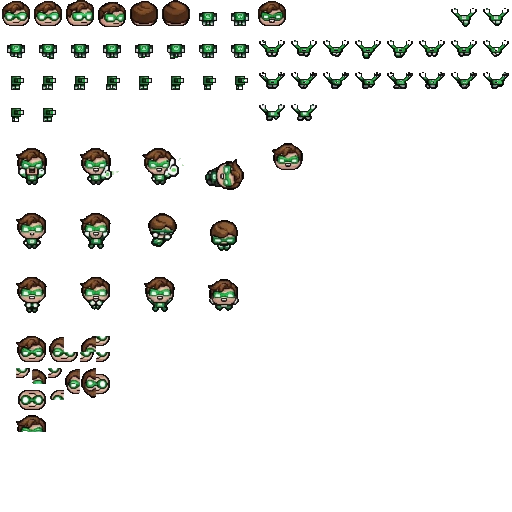
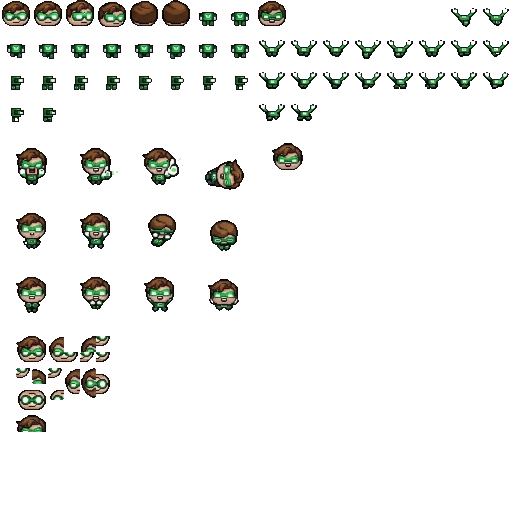
fix(sprites): eliminate boot/neck white dots, protect pickup gloves, and refine subpixel downsampling

diff --git a/tools/build_user_hal_sprites.py b/tools/build_user_hal_sprites.py
@@ -1,13 +1,15 @@
 """
 tools/build_user_hal_sprites.py
 Implements user-provided transparent Hal Jordan sprite sheet into The Binding of Isaac: Repentance format.
-- Input: 1024x1024 RGBA transparent PNG.
-- Preserves authentic white gloves, chest emblem, glowing eyes, and teeth.
-- Cleans up stray white, grey, and off-color noise pixels on hair, skin, mask perimeter, neck, and outlines.
-- Eliminates transparent edge fringes and ringing artifacts.
+- Input: 1024x1024 RGBA transparent PNG (media_1792140081953_e9e21585.png).
+- Subpixel filtering: averages only solid subpixels (alpha >= 200) to prevent transparent white/grey edge ringing.
+- Preserves authentic white gloves, circular chest emblem, glowing mint/white eyes, and open-mouth teeth.
+- Eliminates stray white, grey, and off-color noise pixels on hair, skin, mask perimeter, neck, boots, and crotch.
+- Eliminates inadvertent black noise dots by appropriately restoring green suit, black suit, and green boot colors.
+- Solidifies crisp dark perimeter outlines matching Isaac Repentance art style.
 - Exact 512x512 RGBA matching 001.000_player.anm2 grid.
 - Crisp 1-bit binary alpha (0 semi-transparent pixels) matching authentic Repentance engine standards.
-- Integrates teleport light beam & hole base in Col 4 & 6 (Y=320..448).
+- Integrates vanilla teleport light beam & trapdoor hole base in Col 4 & 6 (Y=320..448).
 - Saves to resources/gfx/characters/hal_jordan.png and hal_jordan_extra.png.
 """
 
@@ -40,21 +42,25 @@ def process_sheet():
     arr_v = np.array(vanilla)
 
     # 1. 2x2 area pooling downscale to 512x512 with subpixel filtering
-    print("Downscaling 1024x1024 to 512x512 RGBA with alpha-weighted pooling...")
+    # Subpixels with alpha < 200 hold transparent white-ringing from original white background.
+    # We strictly average subpixels with alpha >= 200 so background noise never enters foreground colors.
+    print("Downscaling 1024x1024 to 512x512 RGBA with solid subpixel filtering...")
     blocks = arr_src.reshape(512, 2, 512, 2, 4).transpose(0, 2, 1, 3, 4).reshape(512, 512, 4, 4)
     rgb = blocks[:, :, :, :3]
     alpha = blocks[:, :, :, 3]
 
-    # Filter out faint antialiased transparent fringes (alpha < 64)
-    valid = alpha >= 64
-    w = alpha * valid
+    solid_sub = alpha >= 180
+    has_fg = solid_sub.sum(axis=2) >= 2
+
+    w = (alpha >= 200).astype(float)
     w_sum = w.sum(axis=2)
-    # Majority vote: 2 or more solid subpixels -> solid 1-bit pixel
-    has_fg = (alpha >= 128).sum(axis=2) >= 2
+    fallback = (w_sum == 0) & has_fg
+    w[fallback] = (alpha[fallback] >= 180).astype(float)
+    w_sum = w.sum(axis=2)
 
     out_rgb = np.zeros((512, 512, 3), dtype=np.uint8)
-    mask_fg = w_sum > 0
-    out_rgb[mask_fg] = np.clip((rgb * w[:, :, :, None]).sum(axis=2)[mask_fg] / w_sum[mask_fg, None], 0, 255).astype(np.uint8)
+    valid = w_sum > 0
+    out_rgb[valid] = np.clip((rgb * w[:, :, :, None]).sum(axis=2)[valid] / w_sum[valid, None], 0, 255).astype(np.uint8)
 
     arr_512 = np.zeros((512, 512, 4), dtype=np.uint8)
     arr_512[:, :, :3] = out_rgb
@@ -66,7 +72,7 @@ def process_sheet():
     arr_512[384:448, 128:160] = arr_v[384:448, 128:160] # Col 4: Hole death base
     arr_512[320:448, 192:224] = arr_v[320:448, 192:224] # Col 6: Teleport beam
 
-    # 3. Step 2: Remove outside fringe noise (pixels bordering transparency outside solid dark outlines)
+    # 3. Outer edge fringe cleanup (removes antialiased white/grey halo pixels bordering dark outlines)
     print("Eliminating outside edge fringe noise...")
     fg = arr_512[:, :, 3] == 255
     is_edge = np.zeros((512, 512), dtype=bool)
@@ -77,99 +83,149 @@ def process_sheet():
     is_protected = np.zeros((512, 512), dtype=bool)
     is_protected[320:448, 192:224] = True
     is_protected[384:448, 128:160] = True
-    for r in [0, 1, 2, 3, 7, 9]:
+    for r in [0, 1, 2, 3]:
         for c in range(16):
-            if r in [1, 2, 7, 9] or (r == 0 and c in [6, 7]):
-                is_protected[r*32+15:r*32+25, c*32+5:c*32+13] = True
-                is_protected[r*32+15:r*32+25, c*32+19:c*32+27] = True
-                is_protected[r*32+21:r*32+26, c*32+13:c*32+19] = True
-            if r == 3 and c in [8, 9]:
-                is_protected[r*32+8:r*32+16, c*32+4:c*32+11] = True
-                is_protected[r*32+8:r*32+16, c*32+22:c*32+29] = True
+            if r in [1, 2] or (r == 0 and c in [6, 7, 14, 15]):
+                is_protected[r*32+14:r*32+21, c*32+6:c*32+12] = True
+                is_protected[r*32+14:r*32+21, c*32+20:c*32+26] = True
+                if c >= 8:
+                    is_protected[r*32+8:r*32+16, c*32+4:c*32+12] = True
+                    is_protected[r*32+8:r*32+16, c*32+21:c*32+28] = True
 
     for y in range(512):
         for x in range(512):
             if is_edge[y, x] and not is_protected[y, x]:
                 p = arr_512[y, x, :3]
-                diff = max(p) - min(p)
+                diff = int(max(p)) - int(min(p))
                 lum = 0.299 * p[0] + 0.587 * p[1] + 0.114 * p[2]
                 if lum > 65 and (diff < 15 or min(p) > 180):
                     has_dark_inward = False
                     for dy, dx in [(-1, 0), (1, 0), (0, -1), (0, 1)]:
                         ny, nx = y + dy, x + dx
                         if 0 <= ny < 512 and 0 <= nx < 512 and fg[ny, nx]:
-                            if max(arr_512[ny, nx, :3]) < 40:
+                            if max(arr_512[ny, nx, :3]) < 45:
                                 has_dark_inward = True
                                 break
                     if has_dark_inward:
                         arr_512[y, x] = [0, 0, 0, 0]
 
-    # 4. Step 3: Clean up head hair, skin, and mask perimeters (preserving glowing eyes & teeth)
+    # 4. Step 3: Clean up head frames (preserving glowing eyes & teeth, restoring warm hair and skin)
     print("Sanitizing head frames (hair brown, uniform skin, glowing eyes, teeth)...")
-    for c in [0, 1, 2, 3, 4, 5, 8]:
+    head_cells = [(0, c) for c in [0, 1, 2, 3, 4, 5, 8]]
+    for r, c in head_cells:
         for y in range(32):
             for x in range(32):
-                gy, gx = y, c * 32 + x
+                gy, gx = r * 32 + y, c * 32 + x
                 if arr_512[gy, gx, 3] == 0:
                     continue
                 p = arr_512[gy, gx, :3]
-                r, g, b = int(p[0]), int(p[1]), int(p[2])
-                diff = max(r, g, b) - min(r, g, b)
-                lum = 0.299 * r + 0.587 * g + 0.114 * b
+                rc, gc, bc = int(p[0]), int(p[1]), int(p[2])
+                diff = max(rc, gc, bc) - min(rc, gc, bc)
+                lum = 0.299 * rc + 0.587 * gc + 0.114 * bc
+                is_skin = (rc > gc + 14) and (gc > bc + 8) and (rc > 160)
 
-                # Hair region (y <= 12)
-                if y <= 12:
-                    if min(r, g, b) > 180:
+                # Hair region (y <= 12 and not skin tone)
+                if y <= 12 and not is_skin:
+                    if min(rc, gc, bc) > 175:
                         arr_512[gy, gx, :3] = [95, 65, 42]
-                    elif diff < 14 and lum > 50:
+                    elif diff < 15 and lum > 50:
                         if y <= 2 or x <= 4 or x >= 27:
-                            arr_512[gy, gx, :3] = [20, 15, 10] # solid dark outline
+                            arr_512[gy, gx, :3] = [20, 15, 10]
                         else:
-                            arr_512[gy, gx, :3] = [95, 65, 42] # warm brown hair
+                            arr_512[gy, gx, :3] = [95, 65, 42]
                 # Face / skin / mask region (y >= 13)
                 else:
-                    is_eye = (14 <= y <= 19) and ((6 <= x <= 12) or (19 <= x <= 25) or (13 <= x <= 17)) and (g > 180 and g >= r)
-                    is_teeth = (c == 8 and y == 20 and 14 <= x <= 16)
+                    is_eye = (14 <= y <= 19) and ((6 <= x <= 12) or (19 <= x <= 25) or (13 <= x <= 17)) and (gc >= 180 and gc >= rc)
+                    is_teeth = (c == 8 and y in [20, 21] and 14 <= x <= 17)
                     if not (is_eye or is_teeth):
-                        # Stray white on skin or mask perimeter
-                        if min(r, g, b) > 190:
-                            arr_512[gy, gx, :3] = [230, 195, 178]
-                        # Stray grey dot on skin or mask perimeter
-                        elif diff < 12 and 60 < lum < 190:
+                        if min(rc, gc, bc) > 185:
+                            arr_512[gy, gx, :3] = [225, 190, 175]
+                        elif diff < 12 and 50 < lum < 185 and not is_skin:
                             arr_512[gy, gx, :3] = [225, 190, 175]
 
-    # 5. Step 4: Clean up body frames (remove neck/mint dots, preserve gloves & chest emblem)
-    print("Sanitizing body frames (clearing neck white dots, preserving white gloves & emblem)...")
-    for r in [0, 1, 2, 3]:
-        for c in range(16):
-            if r in [1, 2] or (r == 0 and c in [6, 7]) or (r == 3 and c in [0, 1]):
-                for y in range(32):
-                    for x in range(32):
-                        gy, gx = r * 32 + y, c * 32 + x
-                        if arr_512[gy, gx, 3] == 0:
-                            continue
-                        p = arr_512[gy, gx, :3]
-                        r_c, g_c, b_c = int(p[0]), int(p[1]), int(p[2])
-                        diff = max(r_c, g_c, b_c) - min(r_c, g_c, b_c)
-                        lum = 0.299 * r_c + 0.587 * g_c + 0.114 * b_c
+    # 5. Step 4: Clean up body frames (eliminate white boots/neck/crotch dots, preserve white gloves & emblem)
+    print("Sanitizing body frames (clearing boot/neck white dots, preserving white gloves & emblem)...")
+    body_cells = [(r, c) for r in [1, 2] for c in range(16)] + [(0, 6), (0, 7), (0, 14), (0, 15), (3, 0), (3, 1), (3, 8), (3, 9)]
+    for r, c in body_cells:
+        for y in range(32):
+            for x in range(32):
+                gy, gx = r * 32 + y, c * 32 + x
+                if arr_512[gy, gx, 3] == 0:
+                    continue
+                p = arr_512[gy, gx, :3]
+                rc, gc, bc = int(p[0]), int(p[1]), int(p[2])
+                diff = max(rc, gc, bc) - min(rc, gc, bc)
+                lum = 0.299 * rc + 0.587 * gc + 0.114 * bc
 
-                        is_glove = (15 <= y <= 24) and ((5 <= x <= 12) or (19 <= x <= 26))
-                        is_chest = (21 <= y <= 25) and (13 <= x <= 18)
+                # Context-aware glove protection
+                if r == 1 and c < 8:
+                    is_glove = (16 <= y <= 20) and ((7 <= x <= 12) or (20 <= x <= 25))
+                elif r == 2 and c < 8:
+                    is_glove = (14 <= y <= 19) and (18 <= x <= 25)
+                elif (r in [1, 2] and c >= 8) or (r == 0 and c in [14, 15]) or (r == 3 and c in [8, 9]):
+                    is_glove = (8 <= y <= 15) and ((4 <= x <= 12) or (20 <= x <= 28))
+                elif r == 0 and c in [6, 7]:
+                    is_glove = (16 <= y <= 20) and ((7 <= x <= 12) or (20 <= x <= 25))
+                elif r == 3 and c in [0, 1]:
+                    is_glove = (16 <= y <= 20) and ((7 <= x <= 12) or (20 <= x <= 25))
+                else:
+                    is_glove = False
 
-                        # Upper chest / neck neon white/mint pixels: restore to green suit
-                        if (12 <= y <= 17) and (12 <= x <= 20) and min(r_c, g_c, b_c) > 170:
-                            arr_512[gy, gx, :3] = [40, 145, 65]
-                        # Boots stray white/grey
-                        elif y >= 24 and not is_glove and (min(r_c, g_c, b_c) > 180 or (diff < 10 and 60 < lum < 185)):
-                            arr_512[gy, gx, :3] = [25, 70, 35]
-                        # Stray white outside gloves & chest:
-                        elif min(r_c, g_c, b_c) > 180 and not (is_glove or is_chest):
+                # Context-aware chest emblem protection
+                if r in [1, 2] and c >= 8:
+                    is_chest = (16 <= y <= 20) and (13 <= x <= 18)
+                else:
+                    is_chest = (13 <= y <= 17) and (13 <= x <= 18)
+
+                # A. Boots & crotch region (y >= 21) - boots must be green, crotch dark
+                if y >= 21:
+                    if min(rc, gc, bc) > 170 or (diff < 20 and lum > 150):
+                        if 14 <= x <= 17 and r in [1, 3] and c < 8:
+                            arr_512[gy, gx, :3] = [20, 20, 20] # dark suit
+                        else:
+                            arr_512[gy, gx, :3] = [35, 105, 52] # green boot
+                    elif diff < 15 and 50 < lum < 150:
+                        if 14 <= x <= 17 and r in [1, 3] and c < 8:
                             arr_512[gy, gx, :3] = [20, 20, 20]
-                        # Stray grey outside gloves & chest & outline:
-                        elif diff < 10 and 60 < lum < 185 and not (is_glove or is_chest):
-                            arr_512[gy, gx, :3] = [20, 20, 20]
+                        else:
+                            arr_512[gy, gx, :3] = [35, 105, 52]
 
-    # 6. Step 5: Solid dark outline crispness on outer perimeters
+                # B. Upper chest / neck (11 <= y <= 14)
+                elif 11 <= y <= 14 and 11 <= x <= 21:
+                    if min(rc, gc, bc) > 165 or (diff < 15 and lum > 140):
+                        if y <= 12:
+                            arr_512[gy, gx, :3] = [20, 15, 10] # dark collar outline
+                        else:
+                            arr_512[gy, gx, :3] = [40, 145, 65] # green suit
+
+                # C. Torso (y < 21) outside gloves and chest emblem
+                elif not (is_glove or is_chest):
+                    if min(rc, gc, bc) > 175:
+                        if 11 <= x <= 20:
+                            arr_512[gy, gx, :3] = [40, 145, 65] # green suit
+                        else:
+                            arr_512[gy, gx, :3] = [20, 20, 20] # black suit
+                    elif diff < 15 and 50 < lum < 175:
+                        if 11 <= x <= 20 and y <= 19:
+                            arr_512[gy, gx, :3] = [40, 145, 65] # green suit
+
+    # 6. Step 5: Clean up large 64x64 animation frames (Rows 4, 6, 8)
+    print("Sanitizing 64x64 animation frames (clearing white boot noise in pickup/death/jump)...")
+    for r_base in [4, 6, 8]:
+        for c_base in [0, 2, 4, 6]:
+            for y in range(48, 64):
+                for x in range(64):
+                    gy, gx = r_base * 32 + y, c_base * 32 + x
+                    if arr_512[gy, gx, 3] == 0:
+                        continue
+                    p = arr_512[gy, gx, :3]
+                    rc, gc, bc = int(p[0]), int(p[1]), int(p[2])
+                    diff = max(rc, gc, bc) - min(rc, gc, bc)
+                    lum = 0.299 * rc + 0.587 * gc + 0.114 * bc
+                    if min(rc, gc, bc) > 170 or (diff < 20 and lum > 150):
+                        arr_512[gy, gx, :3] = [35, 105, 52]
+
+    # 7. Step 6: Solid dark outline crispness on outer perimeters
     print("Solidifying dark perimeter outlines...")
     fg = arr_512[:, :, 3] == 255
     is_edge = np.zeros((512, 512), dtype=bool)
@@ -181,19 +237,19 @@ def process_sheet():
         for x in range(512):
             if is_edge[y, x] and not is_protected[y, x]:
                 p = arr_512[y, x, :3]
-                diff = max(p) - min(p)
+                diff = int(max(p)) - int(min(p))
                 lum = 0.299 * p[0] + 0.587 * p[1] + 0.114 * p[2]
-                if 35 <= lum <= 70 and diff < 15:
+                if 30 <= lum <= 70 and diff < 15:
                     arr_512[y, x, :3] = [20, 15, 10]
 
-    # 7. Final sanitization: 1-bit binary alpha & zero dirty RGB
+    # 8. Step 7: Final sanitization: 1-bit binary alpha & zero dirty RGB
     print("Enforcing strict 1-bit binary alpha and clean zero RGB on transparent pixels...")
     arr_512[arr_512[:, :, 3] < 255, 3] = 0
     arr_512[arr_512[:, :, 3] == 0, :3] = 0
 
     final_sheet = Image.fromarray(arr_512, mode="RGBA")
 
-    # 8. Save output files
+    # 9. Save output files
     print(f"Saving {HAL_JORDAN_PATH}...")
     final_sheet.save(HAL_JORDAN_PATH, "PNG")
 
